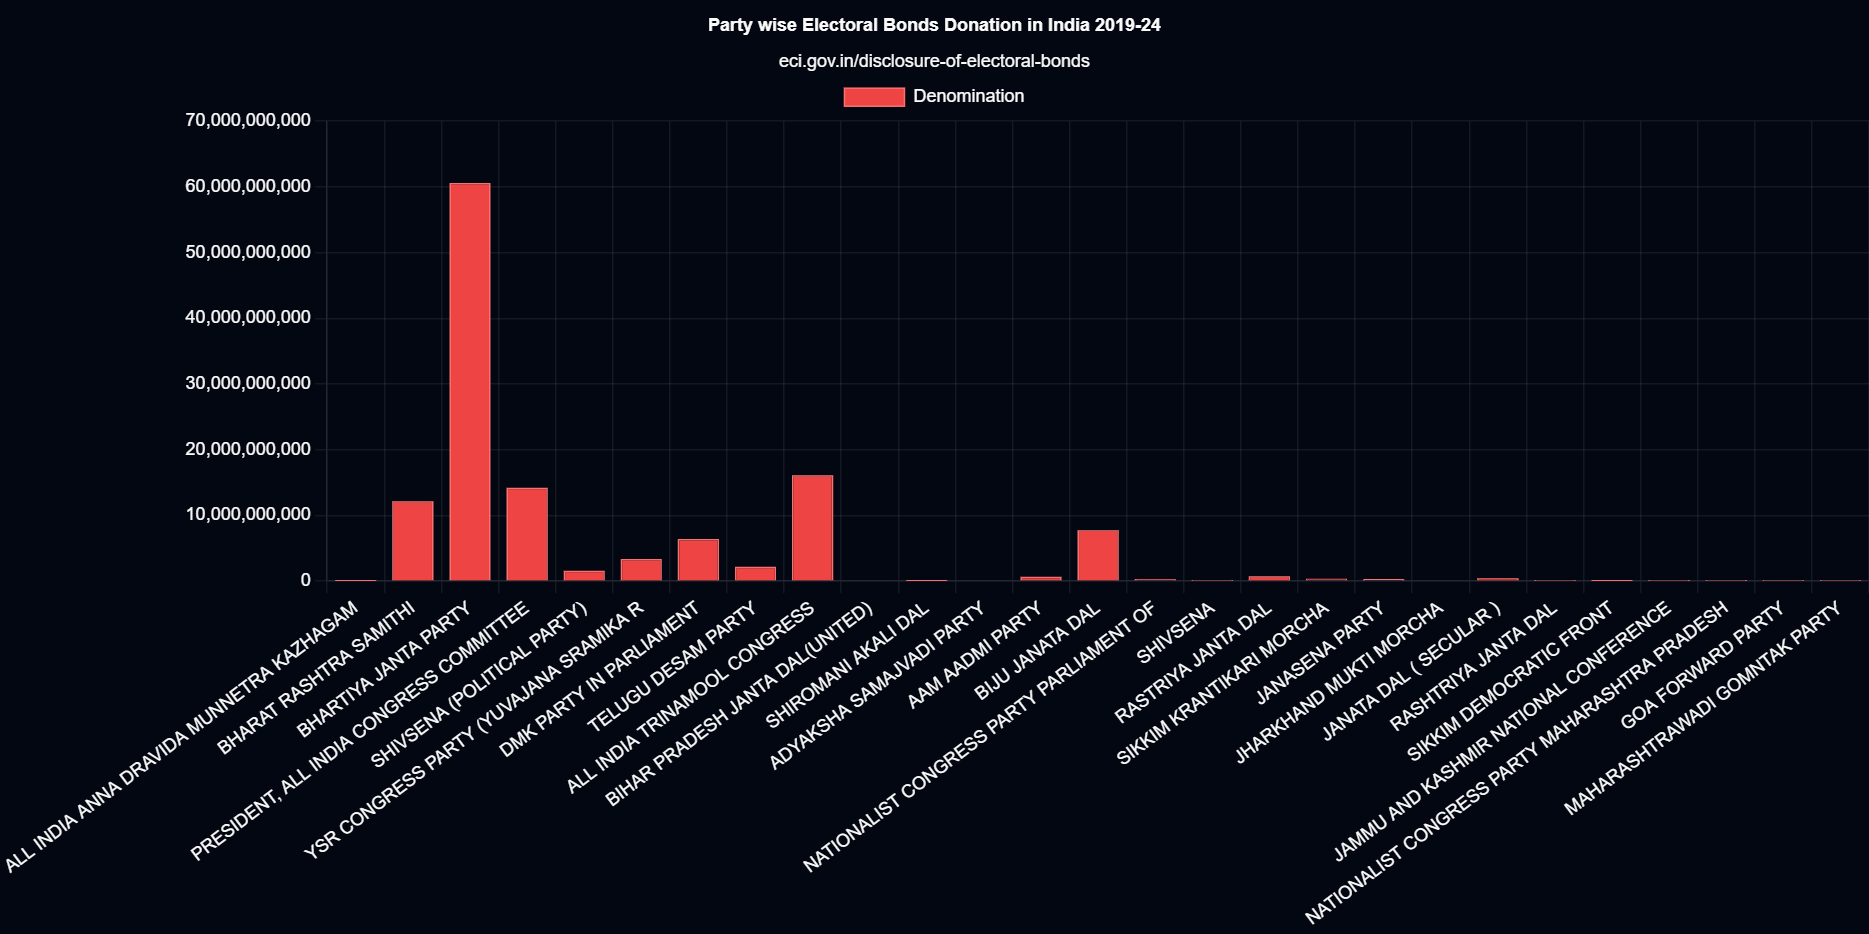
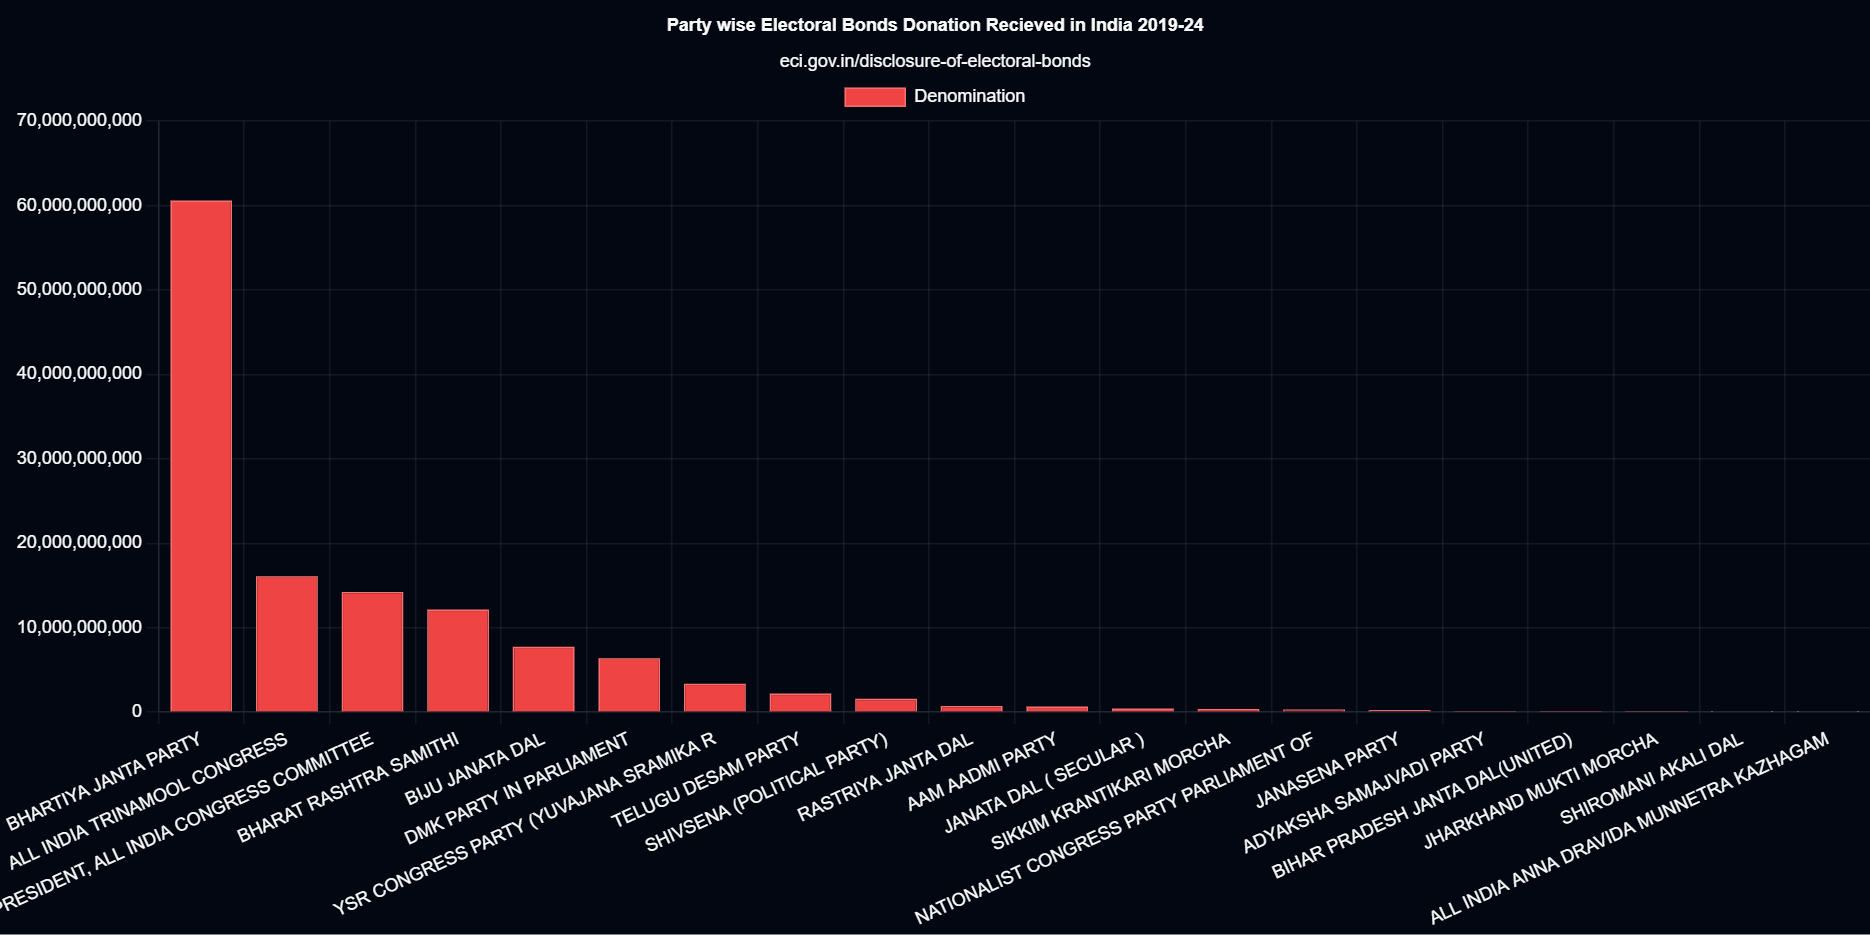
Update Images

diff --git a/README.md b/README.md
@@ -5,5 +5,5 @@ The Visualization of data released by Election Commission of India
 [[Source]](https://eci.gov.in/disclosure-of-electoral-bonds)
 
 
-![Party wise Electoral Bonds Donation Recieved in India 2019-24](https://github.com/arnav-kr/ElectoralBondVisualization/blob/main/public/Parties.png?raw=true)
-![Top 30 Buyers of Electoral Bonds in India 2019-24](https://github.com/arnav-kr/ElectoralBondVisualization/blob/main/public/Buyers.png?raw=true)
+![Party wise Electoral Bonds Donation Recieved in India 2019-24](https://github.com/arnav-kr/ElectoralBondVisualization/blob/main/public/parties.png?raw=true)
+![Top 30 Buyers of Electoral Bonds in India 2019-24](https://github.com/arnav-kr/ElectoralBondVisualization/blob/main/public/buyers.png?raw=true)
